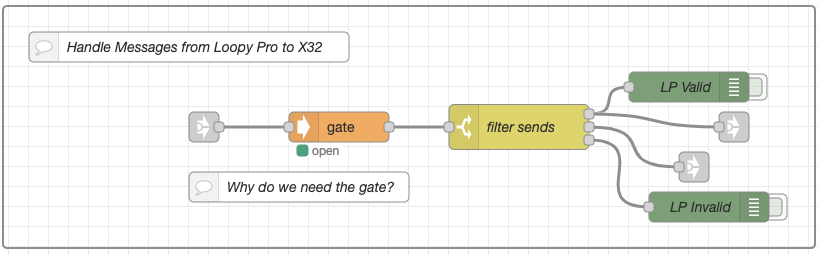
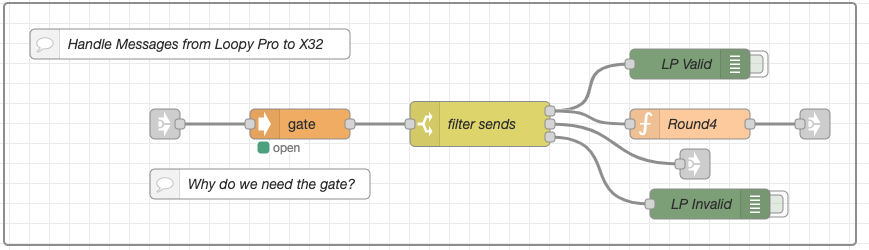
Fixed feedback loop in message handlers

Changed region(s): [[0.0, 0.0, 1.0, 1.0], [0.0306, 0.112, 0.4279, 0.252], [0.1528, 0.672, 0.5196, 0.812]]

diff --git a/X32_XR18/README.md b/X32_XR18/README.md
@@ -89,7 +89,7 @@ This is where all messages coming **FROM** Loopy Pro are handled.
 
 The first thing an incoming message hits is a simple gate node. This "gate" is controlled by the status of the TCP In node of the Loopy Pro connection. Open the "Why do we need the gate?" comment for a full explanation as to why this is needed. The gate is controlled by the Startup/Reconnect group in the Connections flow.
 
-Next is a switch node. This node uses a regular expression statement to act as a filter and allow only mixbus send OSC messages or a special "/sync" message. More on the /sync message below. All other OSC messages from Loopy Pro are discarded. Of course, this would need to be modified if more OSC types of messages are needed. Once filtered, the messages are sent to the X32 via the UDP Out node of the X32 group in the Connections flow.
+Next is a switch node. This node uses a regular expression statement to act as a filter and allow only mixbus send OSC messages or a special "/sync" message. More on the /sync message below. All other OSC messages from Loopy Pro are discarded. Of course, this would need to be modified if more OSC types of messages are needed. Once filtered, the messages are passed through a function node that rounds the values to 4 decimals places. This rounding is required to avoid an endless feedback loop due to differing floating point precision.  The messages are then sent to the X32 via the UDP Out node of the X32 group in the Connections flow.
 
 ### X32 Handler
 
@@ -97,7 +97,7 @@ This is where all messages coming **FROM** the X32 are handled.
 
 ![image](media/Messages-X32.png)
 
-The X32 handler is very simple. It is just a switch node acting as a filter so that only mixbus send messages are sent to Loopy Pro. Technically, this is not required, but the X32 is very "chatty", so this keeps the X32 from overwhelming Loopy Pro. This filter may need to be modifed if more X32 messages are needed.
+The X32 handler is very simple. It is just a switch node acting as a filter so that only mixbus send messages are sent to Loopy Pro. Technically, this is not required, but the X32 is very "chatty", so this keeps the X32 from overwhelming Loopy Pro. This filter may need to be modifed if more X32 messages are needed. Before being sent to Loopy Pro, the messages are passed through a function node that rounds the values to 4 decimal places. This rounding is required to avoid an endless feedback loop due to differing floating point precision.
 
 ### The /sync Handler
 
